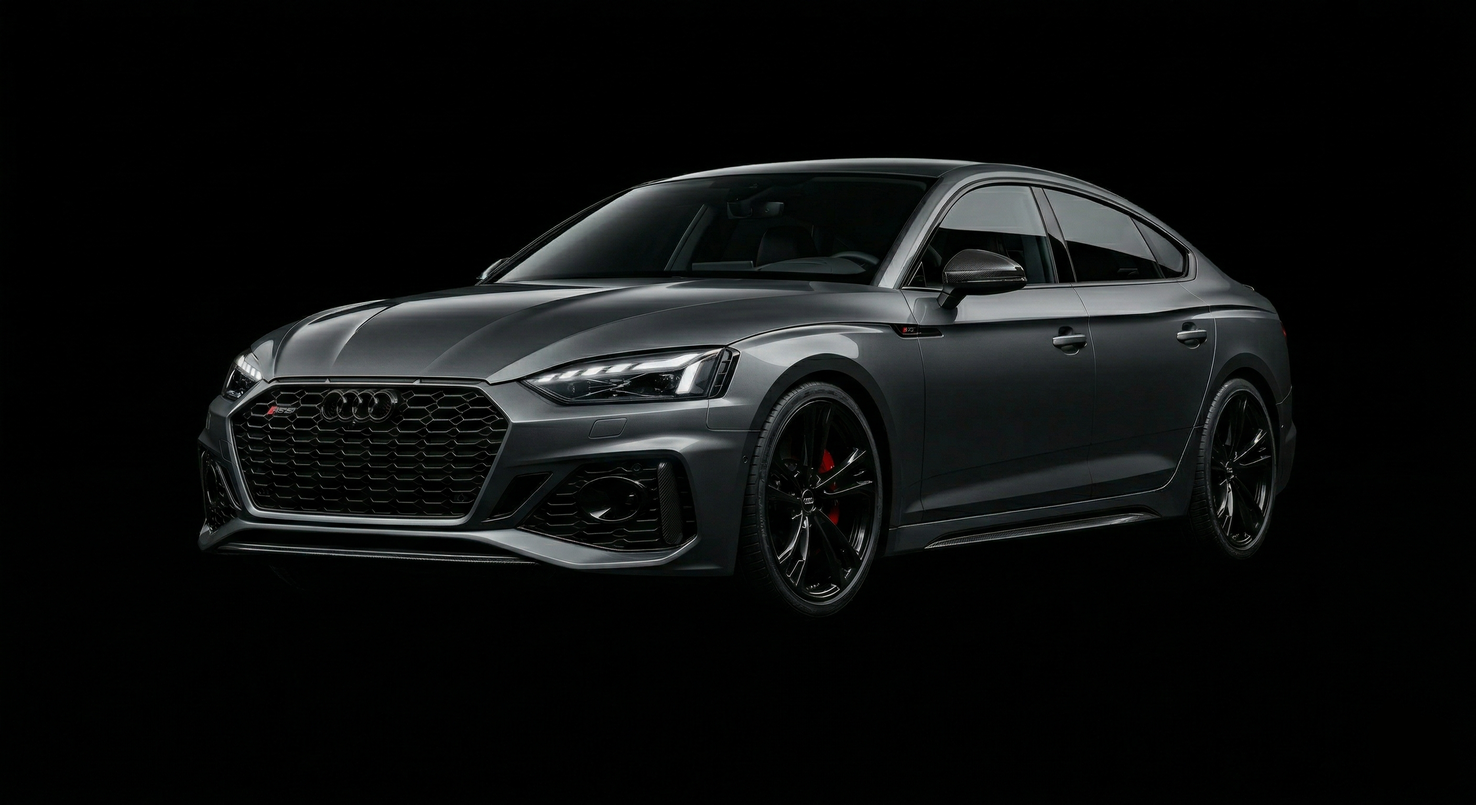
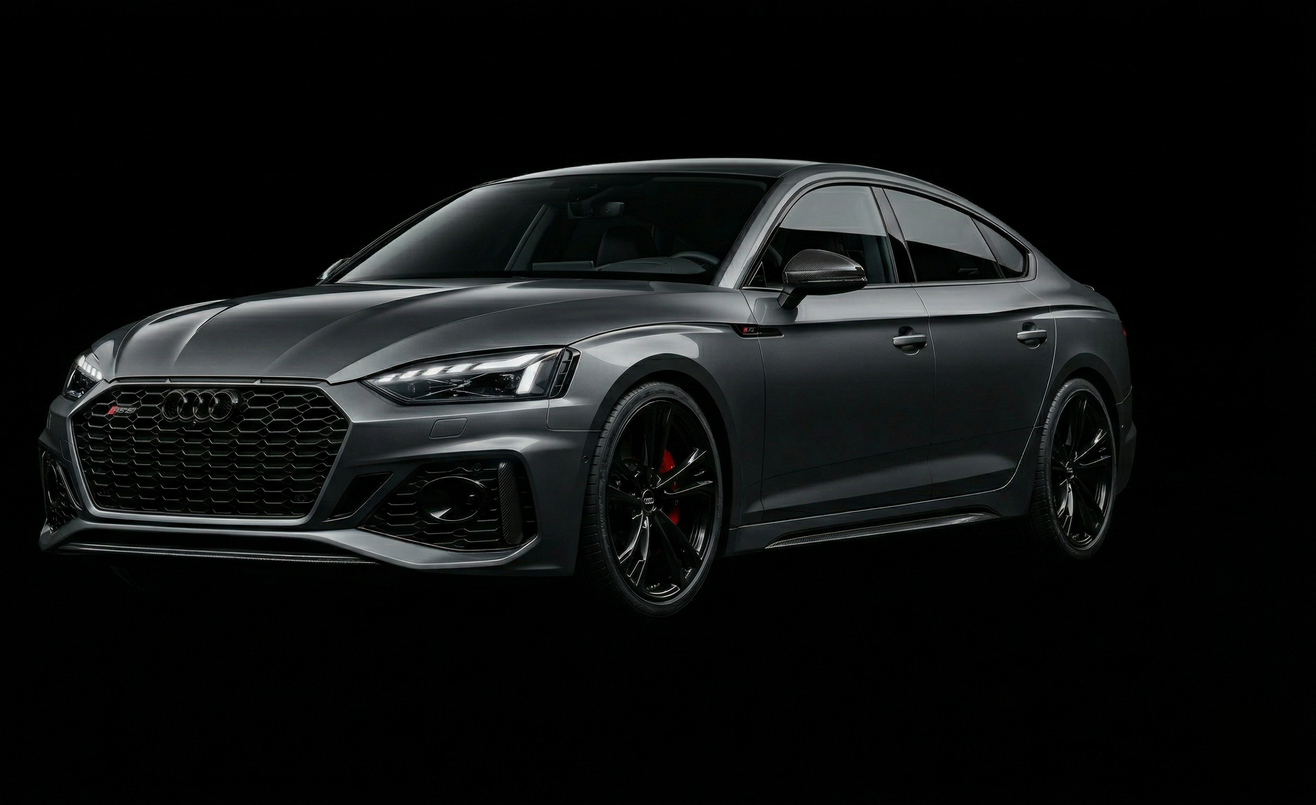
feat: Add dashboard preview image and update layout in AuthPage

Changed region(s): [[0.0311, 0.1875, 0.8694, 0.75]]

diff --git a/02 Dashboard/src/components/landing/Hero.tsx b/02 Dashboard/src/components/landing/Hero.tsx
@@ -1,5 +1,6 @@
 import { ArrowUpRight } from 'lucide-react'
 import { useState, useEffect } from 'react'
+import dashboardPreview from '../../assets/dashboard_preview.png'
 
 const phrases = [
   { before: 'Tired of constant ',    bold: 'Range Anxiety', after: '?' },
@@ -139,12 +140,8 @@ export function Hero() {
             <div style={{ width: '48px' }} />
           </div>
 
-          {/* Screenshot placeholder */}
-          <div style={{ aspectRatio: '16/9', background: '#09090c', display: 'flex', alignItems: 'center', justifyContent: 'center' }}>
-            <p style={{ fontSize: '14px', color: '#374151', letterSpacing: '0.05em' }}>
-              Dashboard preview - add screenshot here
-            </p>
-          </div>
+          {/* Dashboard screenshot */}
+          <img src={dashboardPreview} alt="CyphEV Dashboard" style={{ width: '100%', display: 'block', aspectRatio: '16/9', objectFit: 'cover', objectPosition: 'top' }} />
         </div>
 
         {/* Glow under preview */}

diff --git a/02 Dashboard/src/pages/AuthPage.tsx b/02 Dashboard/src/pages/AuthPage.tsx
@@ -246,7 +246,7 @@ export function AuthPage() {
       <div style={{ display: 'flex', alignItems: 'center', justifyContent: 'center', gap: '60px', width: '100%', maxWidth: '1400px' }}>
 
       {/* Left — Car image */}
-      <div style={{ flex: 1, display: 'flex', alignItems: 'center', justifyContent: 'flex-start', overflow: 'hidden', maxWidth: '1000px', marginLeft: '-60px', marginTop: '60px' }}>
+      <div style={{ flex: 1, display: 'flex', alignItems: 'center', justifyContent: 'flex-start', overflow: 'hidden', maxWidth: '800px', marginLeft: '-30px', marginTop: '60px' }}>
         <img
           src={carImage}
           alt="Audi RS5"
